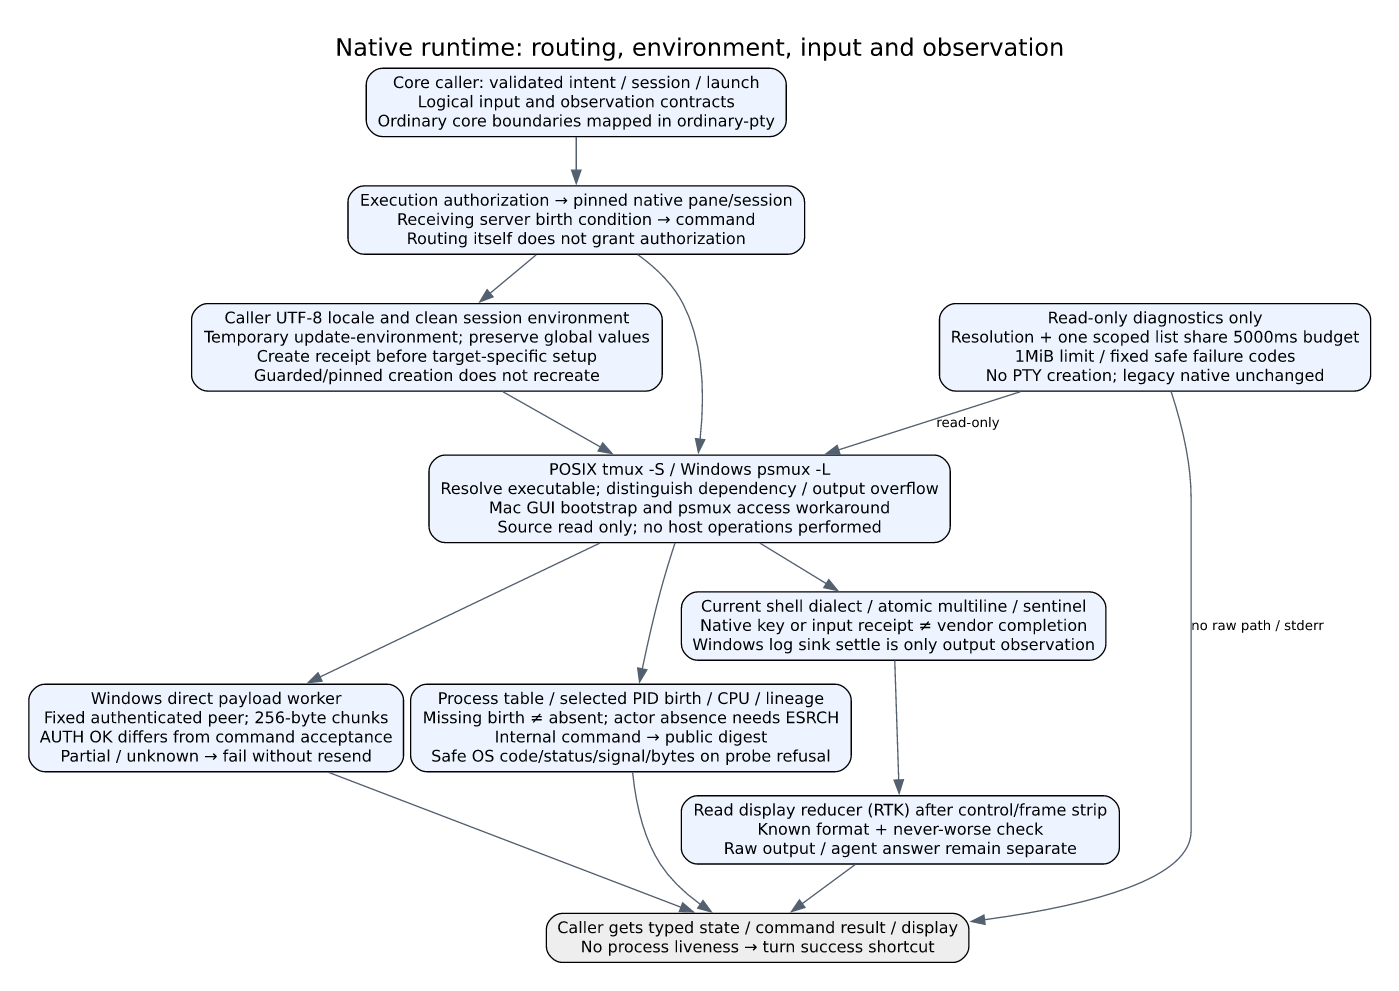
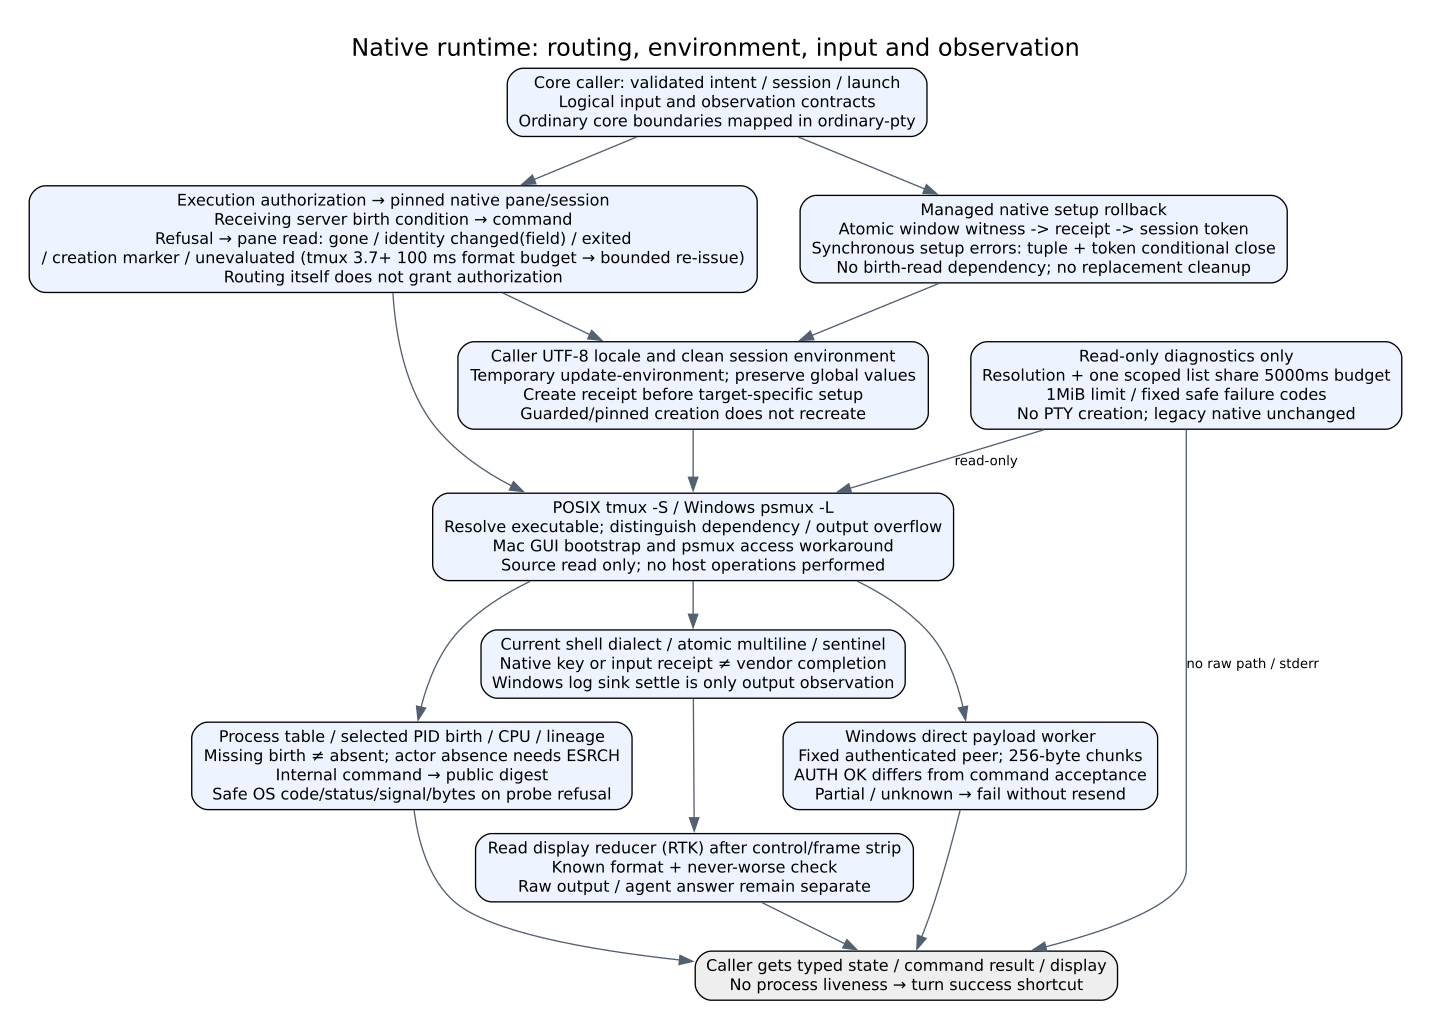
Tell a stalled tmux format apart from a refused native identity (macbook 19:47)
tmux 3.7+ gives each format expansion a 100 ms budget and blanks the rest
when a stalled server runs past it; if-shell -F then takes the refusal
branch with rc=0. A matching seat read as native_condition_refused, so a
fresh launch on the Mac failed under load. if-shell -t and display-message -t
also answer a missing pane with blank fields.

- runTmux classifies a refusal from has-session plus one pane read:
  native_pane_gone / native_identity_changed(field) / native_pane_exited /
  native_creation_marker_changed, or unevaluated -> re-issue the same
  conditional command (the refusal branch ran, the effect did not), at most
  4 tries, then native_condition_unevaluated.
- Blank or partial list-sessions rows are an unavailable listing, never an
  absent session (nativeSessionRows, parseExecutionNativeSessions); a blank
  pane read in verifyCreatedNative is unreadable, not replaced.
- The Mac GUI LaunchAgent sets ProcessType=Interactive so a new tmux server
  and its seats leave launchd's background priority.

diff --git a/src/tmux-runtime.ts b/src/tmux-runtime.ts
@@ -87,7 +87,13 @@ function nativeSessionRows(): string[][] | null {
     Atomics.wait(new Int32Array(new SharedArrayBuffer(4)), 0, 0, 20);
     listed = list();
   }
-  if (listed.code === 0) return listed.stdout.split(/\r?\n/).filter(Boolean).map(row => row.split(/[\t ]/));
+  if (listed.code === 0) {
+    const rows = listed.stdout.split(/\r?\n/);
+    if (rows.at(-1) === "") rows.pop();
+    const split = rows.map(row => row.split(/[\t ]/));
+    // tmux 3.7+ blanks the rest of a format that ran past its 100 ms budget: a blank row is unread, never absent.
+    return split.some(row => row.length < 2 || !/^\$\d+$/.test(row[0]) || !row[1]) ? null : split;
+  }
   return /no server running|No such file or directory/i.test(listed.stderr) ? [] : null;
 }
 
@@ -159,6 +165,31 @@ function nativeSessionArgs(input: string[]): string[] {
 }
 
 const NATIVE_REFUSED = "__AITERM_NATIVE_GENERATION_REFUSED__";
+export const NATIVE_PANE_FORMAT = "#{session_id}\t#{session_name}\t#{pid}\t#{pane_id}\t#{pane_pid}\t#{pane_dead}";
+const NATIVE_UNEVALUATED_TRIES = 4, NATIVE_UNEVALUATED_PAUSE_MS = 50;
+/**
+ * Why the receiving server took the refusal branch, read back from the pane. if-shell -t accepts a missing pane and
+ * expands the condition empty; tmux 3.7+ also blanks a format that runs past 100 ms (a stalled server). null: every field
+ * still matches (or the read itself was blanked), so tmux did not evaluate the condition and the effect did not run.
+ */
+export function classifyNativeRefusal(target: NativeSessionReceipt, read: { code: number; stdout: string; stderr: string },
+  allowExitedPane = false, creation?: string): string | null {
+  if (read.code !== 0) return `native_pane_gone(${tmuxFailure(read)})`;
+  const fields = read.stdout.replace(/\r?\n$/, "").split(/\t/);
+  if (fields.length !== (creation === undefined ? 6 : 7) || fields.slice(0, 4).some(field => !field)) return null;
+  const [native, session, server, pane, panePid, dead] = fields;
+  if (dead !== "0" && dead !== "1") return null;
+  if (dead === "1" && !allowExitedPane) return "native_pane_exited";
+  // macOS tmux clears pane_pid after exit; a live pane's blank pid is an unfinished expansion.
+  if (!panePid && dead === "0") return null;
+  const expected: [string, string, string][] = [["session_id", native, target.native_id], ["session_name", session, target.session_id],
+    ["pid", server, String(target.server_pid)], ["pane_id", pane, target.pane_id]];
+  if (panePid) expected.push(["pane_pid", panePid, String(target.pane_pid)]);
+  const changed = expected.find(([, actual, wanted]) => actual !== wanted);
+  if (changed) return `native_identity_changed(${changed[0]})`;
+  if (creation !== undefined && fields[6] === "0") return "native_creation_marker_changed";
+  return null;
+}
 /** Check on the receiving server too: a new server may recycle session and pane IDs. */
 function nativeConditionalArgs(args: string[]): string[] {
   const target = nativeTargets.getStore()?.target;
@@ -474,21 +505,43 @@ function runTmux(
   // maxBuffer は既定 1MiB。capture-pane（大きなスクロールバック）や多セッションの list-sessions で
   // 頭打ちになり stdout が切れる/空になる。Python の subprocess.run は無制限だったので 64MiB へ広げる。
   // Windows は tmux CLI 互換の native psmux を -L namespace 隔離で叩く（WSL 非依存）。
-  let r;
   const spawnOpts = () => ({ encoding: "utf8" as const, maxBuffer: 64 * 1024 * 1024, input, env: session ?? tmuxSpawnEnv(), ...diagnosticSpawnOptions(deadline) });
-  if (isWin) {
-    ensureWinPsmux(observe, deadline);
-    r = spawnSync(psmuxBin(), ["-L", WIN_NS, ...args], spawnOpts());
-  } else {
-    // resolveTmux() は tmux を解決できなければ明確な AitermError を投げる（POSIX 版の事前確認）。
-    const bin = resolveTmux(observe, deadline);
-    // -f は tmux 本体の引数で、server を起こす時にだけ読まれる（new-session の -f は別物で、config を指さない）。
-    const argv = session ? ["-f", TMUX_EMPTY_CONFIG, "-S", SOCK, ...args] : ["-S", SOCK, ...args];
-    r = (session && macGuiServerWanted(bin) && startTmuxInMacGui(bin, argv, session))
-      || spawnSync(bin, argv, spawnOpts());
+  const spawnOnce = () => {
+    let r;
+    if (isWin) {
+      ensureWinPsmux(observe, deadline);
+      r = spawnSync(psmuxBin(), ["-L", WIN_NS, ...args], spawnOpts());
+    } else {
+      // resolveTmux() は tmux を解決できなければ明確な AitermError を投げる（POSIX 版の事前確認）。
+      const bin = resolveTmux(observe, deadline);
+      // -f は tmux 本体の引数で、server を起こす時にだけ読まれる（new-session の -f は別物で、config を指さない）。
+      const argv = session ? ["-f", TMUX_EMPTY_CONFIG, "-S", SOCK, ...args] : ["-S", SOCK, ...args];
+      r = (session && macGuiServerWanted(bin) && startTmuxInMacGui(bin, argv, session))
+        || spawnSync(bin, argv, spawnOpts());
+    }
+    diagnosticSpawnFailure(r, deadline);
+    return r;
+  };
+  const frame = nativeTargets.getStore();
+  for (let attempt = 1; ; attempt++) {
+    const r = spawnOnce();
+    if (!frame?.target || args[0] !== "if-shell" || (r.stdout ?? "").trim() !== NATIVE_REFUSED) return finishTmux(r, args, observe);
+    // The refusal branch ran, so the effect did not: issuing the same conditional command again is not a second effect.
+    const target = frame.target;
+    // display-message -t, like if-shell -t, answers a missing pane with blank fields and rc=0; has-session fails instead.
+    const present = nativeTargets.exit(() => runTmux(false, undefined, ["has-session", "-t", nativeSessionTarget(target)]));
+    const read = present.code !== 0 ? present : nativeTargets.exit(() => runTmux(false, undefined, ["display-message", "-p", "-t",
+      nativePaneTarget(target), NATIVE_PANE_FORMAT + (frame.creationCondition ? `\t${frame.creationCondition}` : "")]));
+    const reason = classifyNativeRefusal(target, read, frame.allowExitedPane, frame.creationCondition);
+    if (reason === null && attempt < NATIVE_UNEVALUATED_TRIES) {
+      Atomics.wait(new Int32Array(new SharedArrayBuffer(4)), 0, 0, NATIVE_UNEVALUATED_PAUSE_MS);
+      continue;
+    }
+    if (frame.allowRefusal) return finishTmux(r, args, observe);
+    throw reason === null ? new AitermError("AGENT_RESUME_UNCONFIRMED: tmuxがnative端末の照合条件を評価しませんでした（server側の書式の時間切れ）。"
+      + "端末の本人性は読み取りで一致しています。操作していません。native_reason=native_condition_unevaluated", 2)
+      : nativeTargetUnavailable(reason);
   }
-  diagnosticSpawnFailure(r, deadline);
-  return finishTmux(r, args, observe);
 }
 
 /** A read-only tmux command (display-message and the like) that does not block the event loop. Same routing, guards and failures as tmux(). */
@@ -529,7 +582,6 @@ function finishTmux(r: SpawnSyncReturns<string>, args: string[], observe: boolea
     ptyDependencyError(tmuxMissingMessage(), observe);
   }
   const native = nativeTargets.getStore();
-  if (native?.target && !native.allowRefusal && args[0] === "if-shell" && (r.stdout ?? "").trim() === NATIVE_REFUSED) throw nativeTargetUnavailable("native_condition_refused");
   if (native?.target && r.status !== 0) verifyNativeTarget(native);
   return { code: r.status ?? 1, stdout: r.stdout ?? "", stderr: r.stderr ?? "" };
 }
@@ -581,6 +633,9 @@ export function macGuiTmuxPlist(label: string, dir: string, argv: string[], env:
     // 直接起動と同じく、呼んだ側の作業フォルダを最初の pane の開始位置にする。
     `<key>WorkingDirectory</key><string>${xmlText(cwd)}</string>`,
     "<key>RunAtLoad</key><true/>",
+    // launchd's default limits run the job (and the tmux server it starts, with every seat under it) at background priority; a stalled server
+    // overruns tmux's 100 ms format budget and blanks identity checks (macbook 2026-11-14).
+    "<key>ProcessType</key><string>Interactive</string>",
     "<key>AbandonProcessGroup</key><true/>",
     "</dict></plist>",
     "",

diff --git a/src/core.ts b/src/core.ts
@@ -93,6 +93,7 @@ import {
   paneCommandArgs,
   rememberPaneShell,
   sessionPaneAsync,
+  NATIVE_PANE_FORMAT,
 } from "./tmux-runtime.js";
 import {
   AGENT_DEFAULT_PREFACE,
@@ -7240,7 +7241,15 @@ function verifyCreatedNative(native: Omit<AgentResumeNative, "schema" | "launch_
   const unavailable = () => new AitermError("AGENT_RESUME_UNCONFIRMED: 作成したnative端末が置き換わっています。", 2);
   const sessions = observeExecutionNativeSessions();
   if (sessions.state !== "known" || !sessions.sessions.some(row => row.session_id === native.session_id && row.native_id === native.native_id)) throw unavailable();
-  const pane = tmux("display-message", "-p", "-t", nativePaneTarget(native), "#{session_id}\t#{session_name}\t#{pid}\t#{pane_id}\t#{pane_pid}\t#{pane_dead}");
+  const read = () => tmux("display-message", "-p", "-t", nativePaneTarget(native), NATIVE_PANE_FORMAT);
+  // tmux 3.7+ blanks a format past its 100 ms budget: an incomplete read is unknown, not a replaced native.
+  const incomplete = (r: { code: number; stdout: string }) => {
+    const f = r.stdout.replace(/\r?\n$/, "").split("\t");
+    return r.code === 0 && (f.length !== 6 || f.slice(0, 4).some(field => !field) || !["0", "1"].includes(f[5]) || (f[4] === "" && f[5] === "0"));
+  };
+  let pane = read();
+  for (let attempt = 1; incomplete(pane) && attempt < 4; attempt++) { pauseSync(50); pane = read(); }
+  if (incomplete(pane)) throw new AitermError("AGENT_RESUME_UNCONFIRMED: 作成したnative本人性を取得できません。", 2);
   const fields = pane.stdout.trim().split("\t");
   const exited = allowExitedPane && fields[5] === "1";
   // macOS tmux clears pane_pid after exit; only the explicit dead-pane close admits that absence.

diff --git a/src/execution-close.ts b/src/execution-close.ts
@@ -18,7 +18,10 @@ export interface ExecutionCloseBindings {
 
 export function parseExecutionNativeSessions(text: string): ExecutionNativeSessions {
   const sessions: ExecutionNativeSession[] = [];
-  for (const line of text.split(/\r?\n/).filter(Boolean)) {
+  const lines = text.split(/\r?\n/);
+  if (lines.at(-1) === "") lines.pop();
+  // A blank row is a format tmux 3.7+ cut at its 100 ms budget, not an absent session.
+  for (const line of lines) {
     const parts = line.split("\t");
     if (parts.length !== 2 || !/^\$\d+$/.test(parts[0])
       || !executionLaunchSchema.shape.session_id.safeParse(parts[1]).success

diff --git a/docs/architecture/native-runtime.md b/docs/architecture/native-runtime.md
@@ -83,3 +83,19 @@ Function/data-flow contract: managed creation → `withNativeSessionSetupRollbac
 Rollback proof and refusal reasons (0.70.5): after the conditional close, `withNativeSessionSetupRollback` reads one complete `list-sessions` (`#{session_id}`, `#{session_name}`). Listed without the name, or the no-server diagnostics the ordinary session list already reads as empty (after the short `server exited unexpectedly` settle), is the only proof of absence and sets `nativeSessionAbsent` on the error; the created native still listed or an unavailable listing adds `creation_rollback_unconfirmed`. A non-zero `has-session` is no longer read as absence. `nativeTargetUnavailable(reason)` appends `native_reason=<site>` to every native identity refusal; a failed creation command adds the command name, exit code and first stderr line, an unreadable receipt adds the stdout size and first stderr line. The text no longer says "resumed": the same refusals occur on fresh creation.
 
 Multi-line launch line on a POSIX pane shell (`tmux-runtime.atomicShellMultiline`, bash/sh/zsh/dash): one physical line `eval "$(command printf '%b' '<payload>')"`. The payload carries `\` `LF` `CR` `TAB` as `%b` escapes and every `'` `"` `` ` `` `$` `!` `{` `}` as `%b` octal `\0nnn`, so the word holds no quote or expanding byte. macOS bash 3.2 brace-expanded the whole word when it held a `"` (a Codex `-c mcp_servers.NAME={...}` value, and the old `'"'"'` quote itself), and an interactive shell history-expands `!` (0.70.11).
+
+## Receiving-side refusal classification (0.70.59)
+
+tmux 3.7+ gives every format expansion a 100 ms wall-clock budget; past it the remaining sub-expansions return empty. `if-shell -t` also accepts a missing pane and expands the condition empty. Both send the conditional command to its refusal branch with rc=0, so the refusal marker alone does not mean "a different native". A stalled server (macOS launchd runs a job without `ProcessType` at background priority, and the seats inherit it) turned a matching identity into `native_condition_refused` (macbook 2026-11-14 19:47, fresh launch failed).
+
+Function/data flow: `runTmux` conditional command → marker → `has-session` on the pinned native session (non-zero: gone; `display-message -t` answers a missing pane with blank fields and rc=0 like `if-shell`) → one `display-message` read of the pinned pane outside the frame (`NATIVE_PANE_FORMAT`, plus the creation marker during setup) → `classifyNativeRefusal`:
+
+| Read | Reason | Next |
+| --- | --- | --- |
+| non-zero | `native_pane_gone(rc stderr)` | throw |
+| a field differs | `native_identity_changed(<field>)` | throw |
+| `pane_dead=1` without the exited-pane admission | `native_pane_exited` | throw |
+| creation marker `0` | `native_creation_marker_changed` | throw |
+| all match, or the read itself blank/partial | unevaluated | re-issue the same conditional command, at most 4 tries 50 ms apart; then `native_condition_unevaluated` (not an identity refusal) |
+
+The refusal branch ran, so the effect did not: re-issuing is not a second effect. `allowRefusal` callers (setup rollback close) keep their result after the same bounded re-issue. Blank or partial rows in `list-sessions` reads (`nativeSessionRows`, `parseExecutionNativeSessions`) are an unavailable listing, never absence; `verifyCreatedNative` reads a blank pane row as "identity unreadable", not "replaced". The Mac GUI LaunchAgent sets `ProcessType=Interactive` so a newly started server and its seats run at normal priority; a server already running keeps its priority until it restarts.
